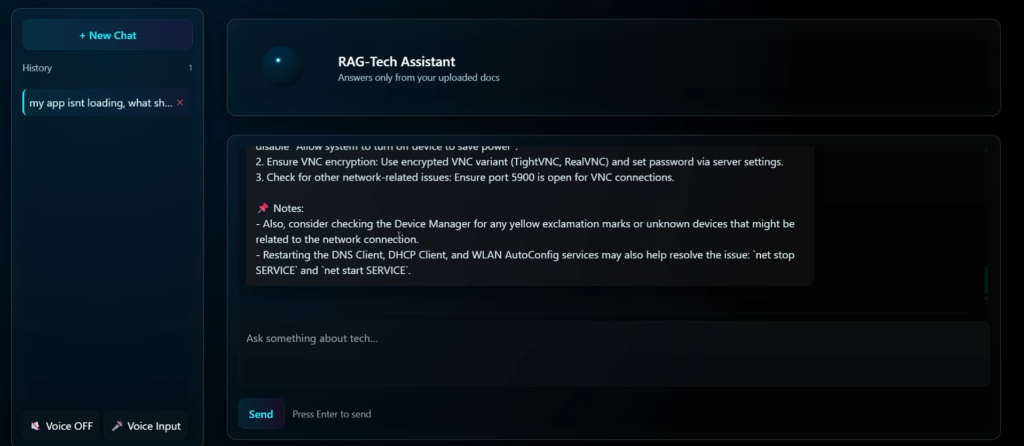
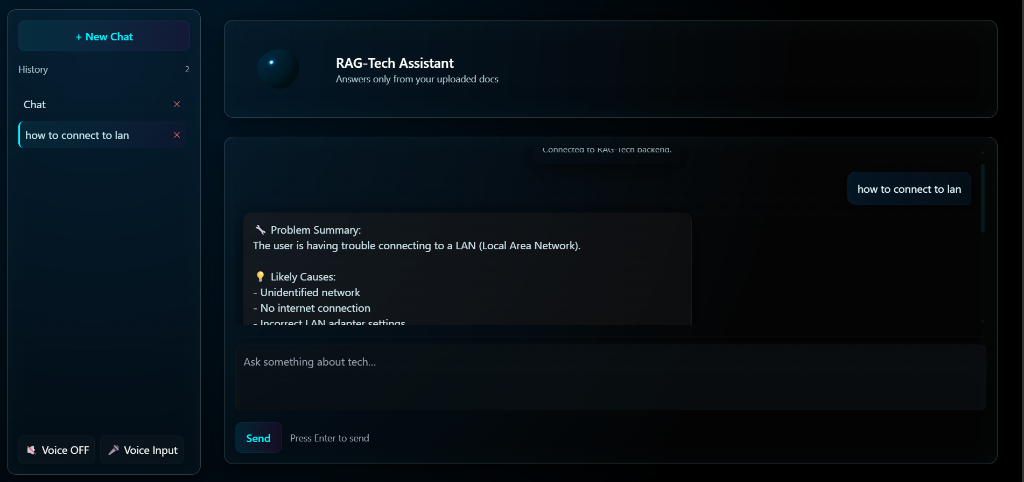
feat: updated RAG-Tech Assistant project with uploaded UI thumbnail, refined RAG problem & solution specs, and updated YashOS Mini Desktop listing

diff --git a/src/components/sections/Work.tsx b/src/components/sections/Work.tsx
@@ -42,19 +42,19 @@ const FALLBACK_PROJECTS: Project[] = [
   {
     id: 'rag-tech-bot',
     slug: 'rag-tech-bot',
-    title: 'RAG-Tech Bot',
+    title: 'RAG-Tech Assistant',
     short_description:
-      'AI chatbot that answers technical questions using a custom knowledge base and RAG — delivering accurate, context-aware responses without relying on general LLM knowledge alone.',
-    category: 'AI / ML',
+      'A Domain-Grounded Technical AI Assistant powered by RAG (Retrieval-Augmented Generation) that answers complex technical troubleshooting queries exclusively from uploaded document knowledge bases with hands-free Voice Input & Synthesis.',
+    category: 'AI / RAG Architecture',
     year: 2025,
     status: 'completed',
     github_url: 'https://github.com/Yash-0209-git/rag-tech-bot.git',
-    technologies: ['Python', 'FastAPI', 'FAISS', 'Sentence Transformers', 'Groq', 'Llama 3.3 70B', 'React', 'Vite', 'Three.js', 'Tailwind CSS', 'PyTorch'],
+    technologies: ['Python', 'FastAPI', 'FAISS', 'Sentence Transformers', 'Groq API', 'Llama 3.3 70B', 'React 18', 'TypeScript', 'Web Speech API', 'Tailwind CSS', 'PyTorch'],
     featured: true, published: true, display_order: 2,
     thumbnail_url: '/projects/rag-tech-bot.png',
-    problem: 'Standard LLMs answer from general training data, producing hallucinations or outdated answers for domain-specific technical queries.',
-    solution: 'Built a full RAG pipeline with query expansion, FAISS vector retrieval, reranking, and context boosting — served through a FastAPI backend and a React + Three.js frontend.',
-    challenges: 'Improving retrieval accuracy on short queries, handling multi-stage RAG pipeline latency, and ensuring consistent grounded generation via Llama 3.3 70B.',
+    problem: 'Standard LLMs produce hallucinations or lack specific context when answering specialized technical and network troubleshooting queries.',
+    solution: 'Engineered a complete RAG (Retrieval-Augmented Generation) system with multi-stage query expansion, FAISS vector retrieval, sentence transformer reranking, hands-free Voice Input & Speech Synthesis, and grounded generation via Llama 3.3 70B.',
+    challenges: 'Optimizing multi-stage RAG vector retrieval latency, improving sentence transformer reranking accuracy, and integrating low-latency Web Speech API voice synthesis.',
   },
 ];
 

diff --git a/src/api/index.ts b/src/api/index.ts
@@ -51,27 +51,27 @@ export const STATIC_PROJECTS: Project[] = [
   {
     id: 'rag-tech-bot',
     slug: 'rag-tech-bot',
-    title: 'RAG-Tech Bot',
+    title: 'RAG-Tech Assistant',
     short_description:
-      'AI chatbot that answers technical questions using a custom knowledge base and RAG — delivering accurate, context-aware responses without relying on general LLM knowledge alone.',
-    category: 'AI / ML',
+      'A Domain-Grounded Technical AI Assistant powered by RAG (Retrieval-Augmented Generation) that answers complex technical troubleshooting queries exclusively from uploaded document knowledge bases with hands-free Voice Input & Synthesis.',
+    category: 'AI / RAG Architecture',
     year: 2025,
     status: 'completed',
     github_url: 'https://github.com/Yash-0209-git/rag-tech-bot.git',
     technologies: [
       'Python', 'FastAPI', 'FAISS', 'Sentence Transformers',
-      'Groq', 'Llama 3.3 70B', 'React', 'Vite', 'Three.js',
+      'Groq API', 'Llama 3.3 70B', 'React 18', 'TypeScript', 'Web Speech API',
       'Tailwind CSS', 'PyTorch',
     ],
     featured: true,
     published: true,
     display_order: 2,
     problem:
-      'Standard LLMs answer from general training data, producing hallucinations or outdated answers for domain-specific technical queries.',
+      'Standard LLMs produce hallucinations or lack specific context when answering specialized technical and network troubleshooting queries.',
     solution:
-      'Built a full RAG pipeline with query expansion, FAISS vector retrieval, reranking, and context boosting — served through a FastAPI backend and a React + Three.js frontend.',
+      'Engineered a complete RAG (Retrieval-Augmented Generation) system with multi-stage query expansion, FAISS vector retrieval, sentence transformer reranking, hands-free Voice Input & Speech Synthesis, and grounded generation via Llama 3.3 70B.',
     challenges:
-      'Improving retrieval accuracy on short queries, handling multi-stage RAG pipeline latency, and ensuring consistent grounded generation via Llama 3.3 70B.',
+      'Optimizing multi-stage RAG vector retrieval latency, improving sentence transformer reranking accuracy, and integrating low-latency Web Speech API voice synthesis.',
     thumbnail_url: '/projects/rag-tech-bot.png',
   },
 ];
